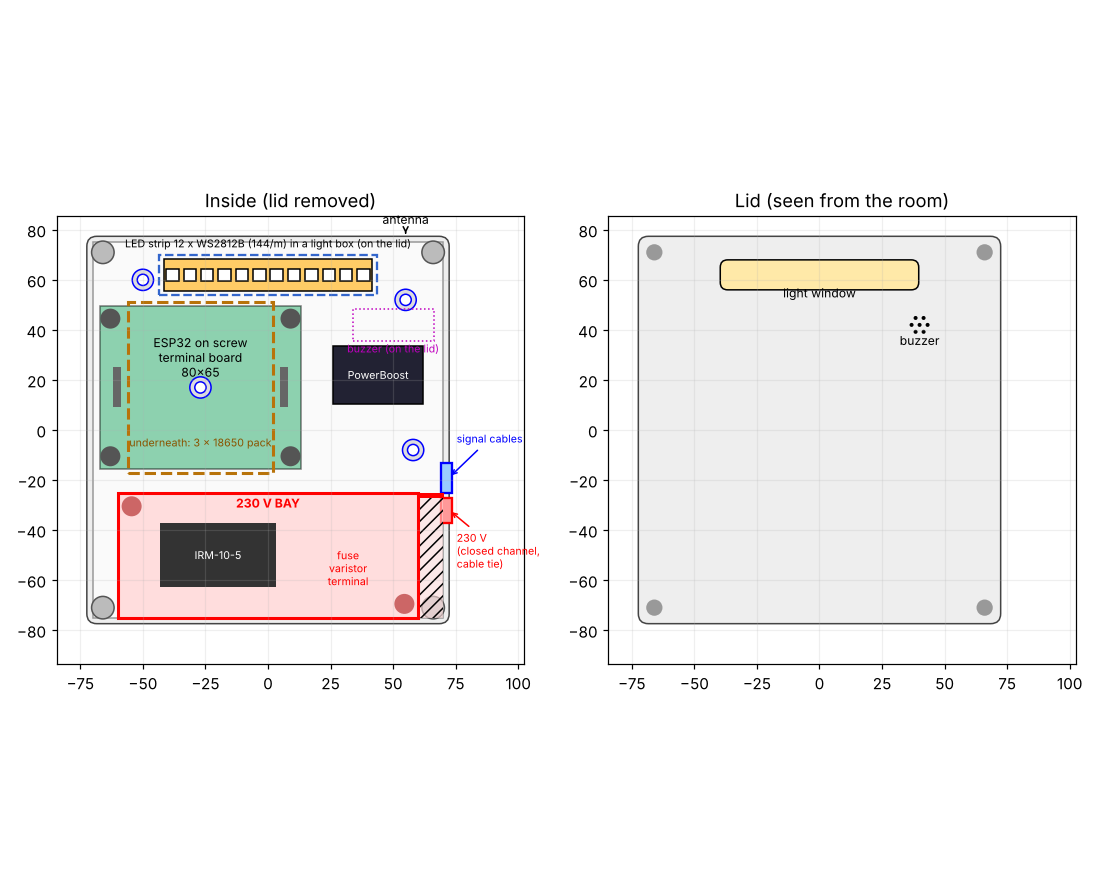
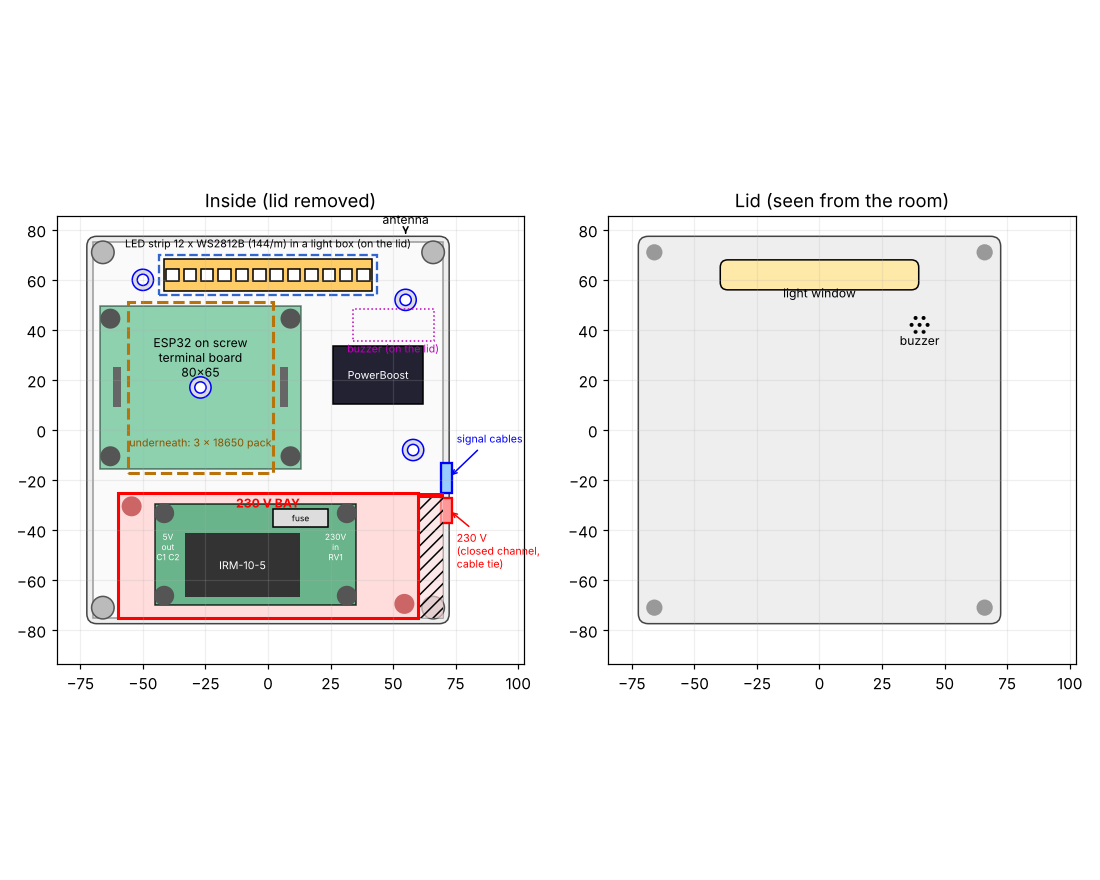
230 V bay: posts for an 80 x 40 power supply board
- use_psu_board (default): 4 posts with M3 heat-set inserts, board 8 mm
  above the floor; the bare-module cradle is used only when false
- Input end on the right (230 V entry), output end on the left (5 V hole)

Claude-Session: https://claude.ai/code/session_015e9f9p5EFhy5EoRU7fAuGL

Changed region(s): [[0.1236, 0.5523, 0.34, 0.7057]]

diff --git a/README.md b/README.md
@@ -42,7 +42,7 @@ Tested with **ESPHome 2026.9.1**, an ESP32-WROOM-32U DevKit (38 pin) and a **Nuk
 - 19 mm vandal-proof push button with 3–6 V LED ring
 - Subminiature lever microswitch (20 × 10.8 × 6.5 mm, steel lever, C/NO/NC contacts; use C + NO)
 - Reed switch + 6 × 2 mm magnet, wired in series with the microswitch
-- Mean Well IRM-10-5 (5 V 2 A) with fuse, varistor and output capacitors
+- Mean Well IRM-10-5 (5 V 2 A) with fuse, varistor and output capacitors, on an 80 × 40 mm perfboard (cut from a 70 × 90 one) with screw terminals; keep at least 6 mm between the 230 V and the 5 V copper
 - Adafruit PowerBoost 1000C + single-cell Li-ion pack (3.7 V)
 
 ### Tamper switch wiring
